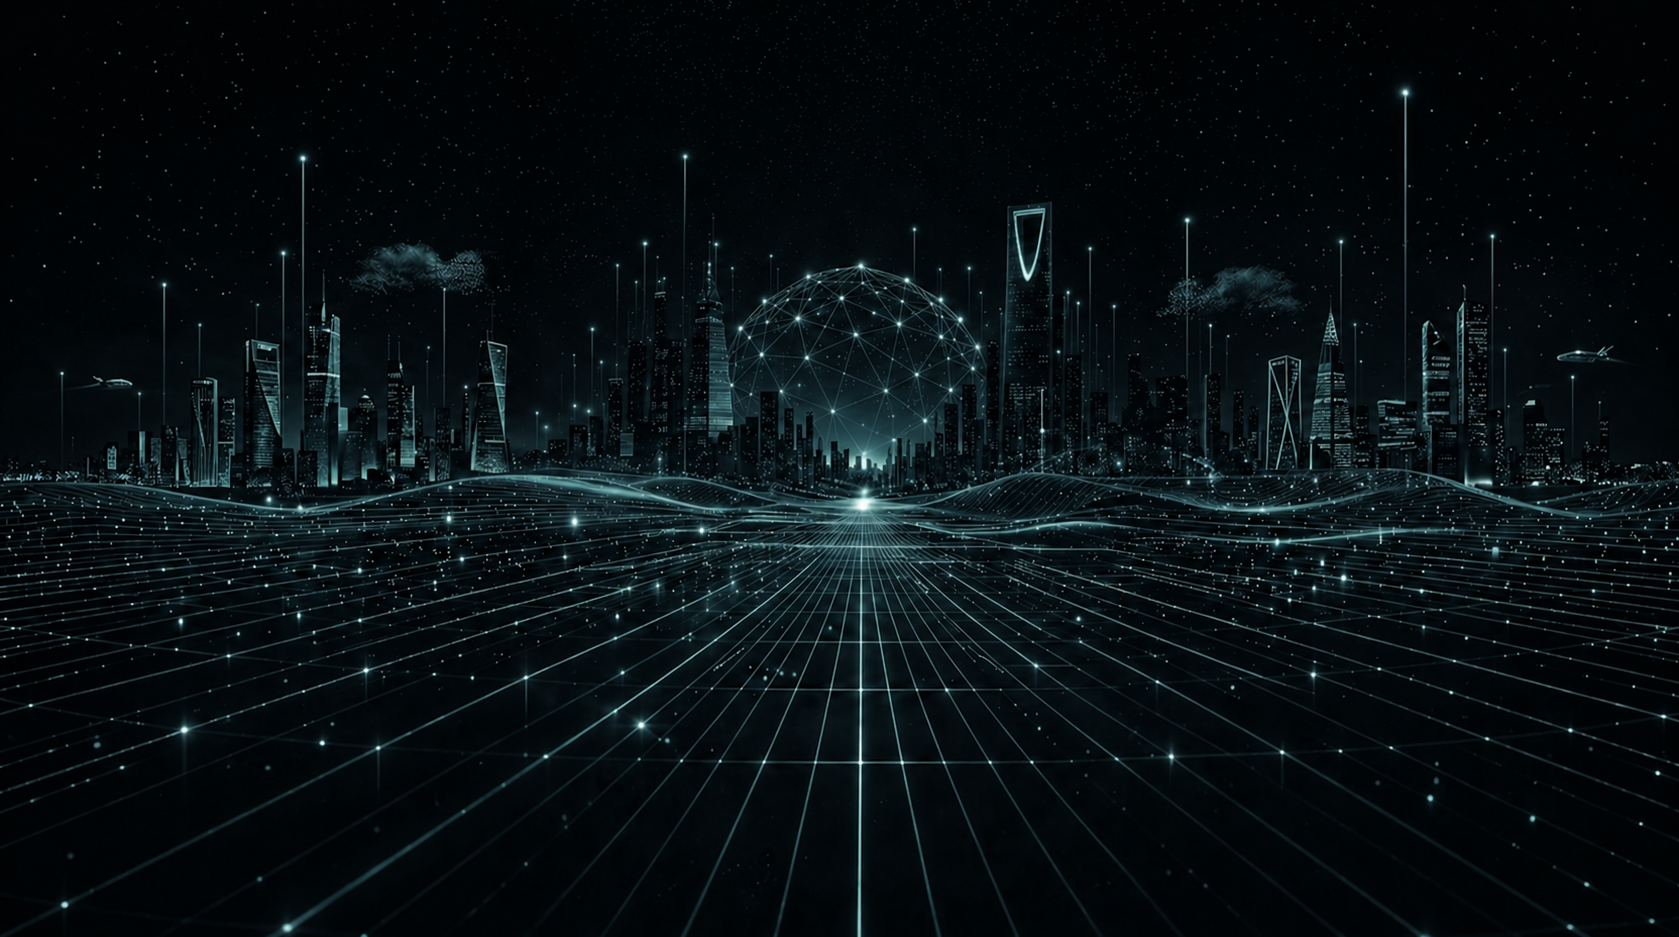
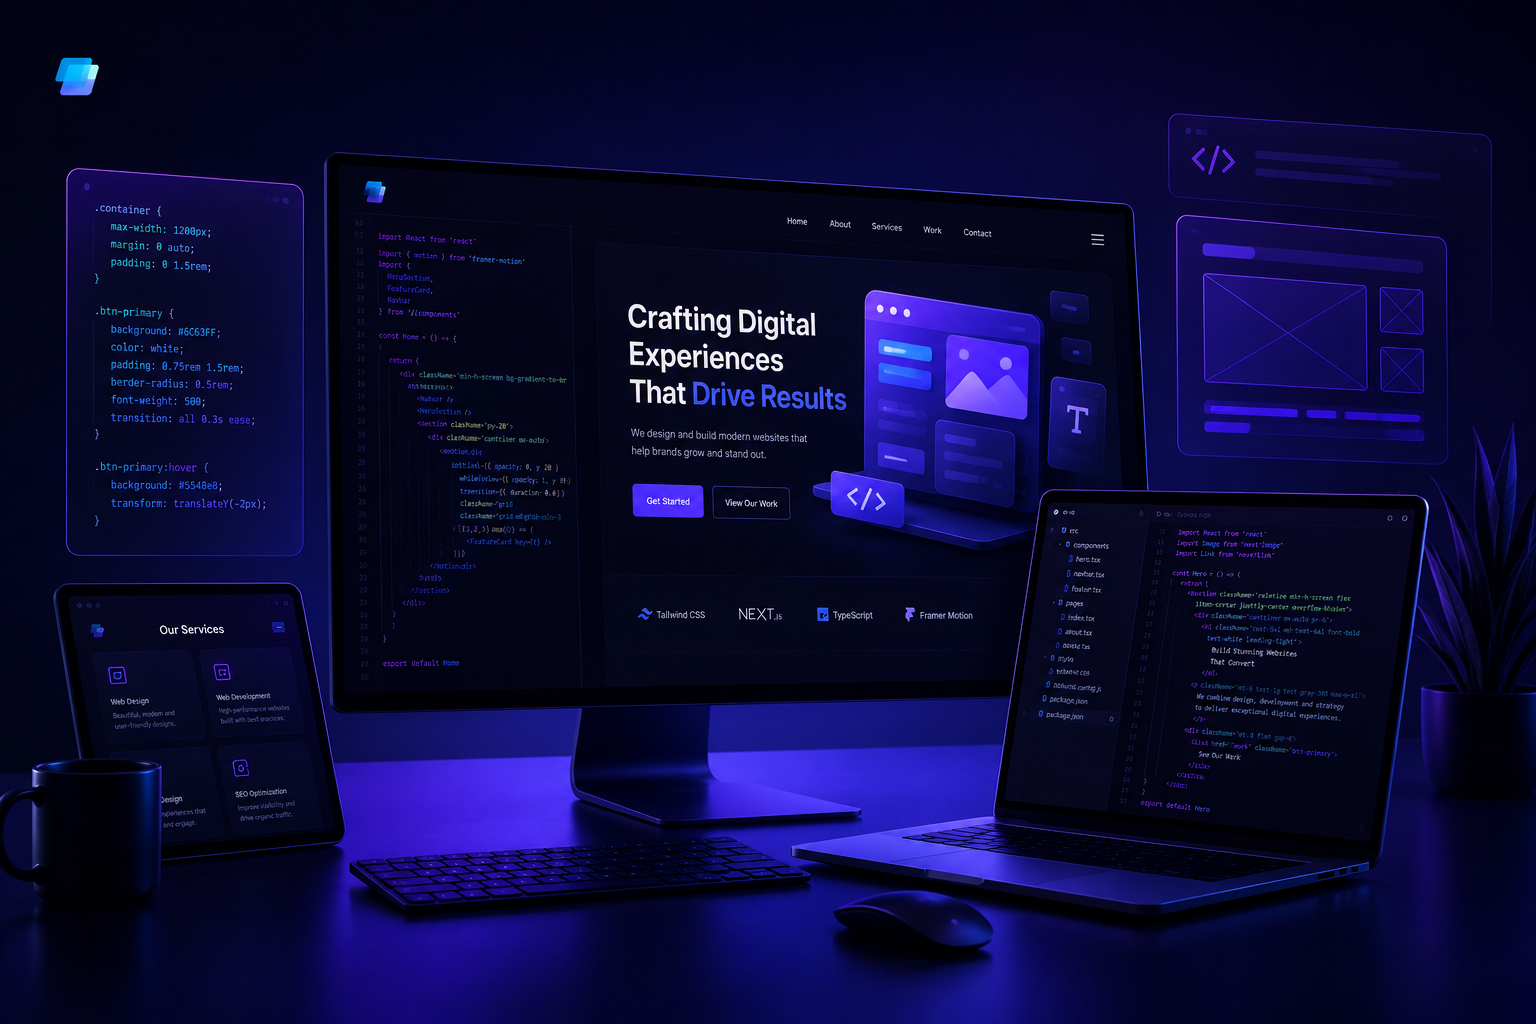
يس

diff --git a/src/components/Testimonials.jsx b/src/components/Testimonials.jsx
@@ -235,9 +235,10 @@ export default function Testimonials({ lang }) {
           </div>
 
           {/* Navigation */}
-          <div style={{ display: 'flex', alignItems: 'center', justifyContent: 'center', gap: 24 }}>
+          <div className="testi-nav" style={{ display: 'flex', alignItems: 'center', justifyContent: 'center', gap: 24 }}>
             <button
               onClick={() => goTo((active - 1 + tx.items.length) % tx.items.length)}
+              className="testi-arrow"
               style={{
                 width: 40, height: 40, borderRadius: '50%',
                 background: 'transparent', border: '1px solid rgba(0,194,255,0.3)',
@@ -252,18 +253,21 @@ export default function Testimonials({ lang }) {
               </svg>
             </button>
 
-            <div style={{ display: 'flex', gap: 8 }}>
+            <div className="testi-dots" style={{ display: 'flex', gap: 8 }}>
               {tx.items.map((_, i) => (
-                <button key={i} onClick={() => goTo(i)} style={{
-                  width: i === active ? 24 : 8, height: 8, borderRadius: 4,
-                  background: i === active ? '#00C2FF' : 'rgba(0,194,255,0.25)',
-                  border: 'none', cursor: 'pointer', transition: 'all 0.35s ease', padding: 0,
-                }} />
+                <button
+                  key={i}
+                  onClick={() => goTo(i)}
+                  className="testi-dot"
+                  data-active={i === active ? 'true' : 'false'}
+                  style={{ border: 'none', cursor: 'pointer' }}
+                />
               ))}
             </div>
 
             <button
               onClick={() => goTo((active + 1) % tx.items.length)}
+              className="testi-arrow"
               style={{
                 width: 40, height: 40, borderRadius: '50%',
                 background: 'transparent', border: '1px solid rgba(0,194,255,0.3)',
@@ -298,8 +302,53 @@ export default function Testimonials({ lang }) {
         }
         @keyframes tAvRing  { from { transform: rotate(0deg);   } to { transform: rotate(360deg);   } }
         @keyframes tAvDot   { from { transform: rotate(0deg);   } to { transform: rotate(360deg);   } }
+
+        .testi-dots {
+          width: min(520px, 72vw);
+          justify-content: center;
+          flex-wrap: wrap;
+          row-gap: 8px;
+          padding: 6px 2px;
+        }
+        .testi-dot {
+          width: 28px;
+          height: 28px;
+          border-radius: 999px;
+          background: transparent;
+          display: grid;
+          place-items: center;
+          transition: transform 0.25s ease;
+          flex: 0 0 auto;
+        }
+        .testi-dot::before {
+          content: '';
+          width: 8px;
+          height: 8px;
+          border-radius: 999px;
+          background: rgba(0,194,255,0.25);
+          transition: width 0.25s ease, background 0.25s ease, box-shadow 0.25s ease;
+        }
+        .testi-dot[data-active="true"]::before {
+          width: 18px;
+          background: #00C2FF;
+          box-shadow: 0 0 14px rgba(0,194,255,0.35);
+        }
         @media (max-width: 768px) {
           #testimonials .container > div:last-child > div:first-child { padding: 36px 28px !important; }
+          .testi-nav { gap: 14px !important; }
+          .testi-arrow { width: 34px !important; height: 34px !important; }
+          .testi-dots { width: min(420px, 62vw); }
+          .testi-dot { width: 26px; height: 26px; }
+          .testi-dot::before { width: 7px; height: 7px; }
+          .testi-dot[data-active="true"]::before { width: 16px; }
+        }
+        @media (max-width: 420px) {
+          .testi-nav { gap: 10px !important; }
+          .testi-arrow { width: 32px !important; height: 32px !important; }
+          .testi-dots { width: min(320px, 58vw); }
+          .testi-dot { width: 24px; height: 24px; }
+          .testi-dot::before { width: 6px; height: 6px; }
+          .testi-dot[data-active="true"]::before { width: 14px; }
         }
       `}</style>
     </section>

diff --git a/src/App.jsx b/src/App.jsx
@@ -53,15 +53,15 @@ function LoadingScreen() {
         fontWeight: 900,
         letterSpacing: 2,
       }}>
-        <span style={{ color: '#b8a472' }}>B</span>
+        <span style={{ color: 'var(--neon-blue)' }}>B</span>
         <span style={{ color: '#f5f0e8' }}>M</span>
-        <span style={{ color: '#b8a472' }}>C</span>
+        <span style={{ color: 'var(--neon-blue)' }}>C</span>
       </div>
       <div style={{
         width: 40,
         height: 40,
-        border: '3px solid rgba(184,164,114,0.2)',
-        borderTopColor: '#b8a472',
+        border: '3px solid rgba(0,194,255,0.22)',
+        borderTopColor: 'var(--neon-blue)',
         borderRadius: '50%',
         animation: 'spin 1s linear infinite',
       }} />